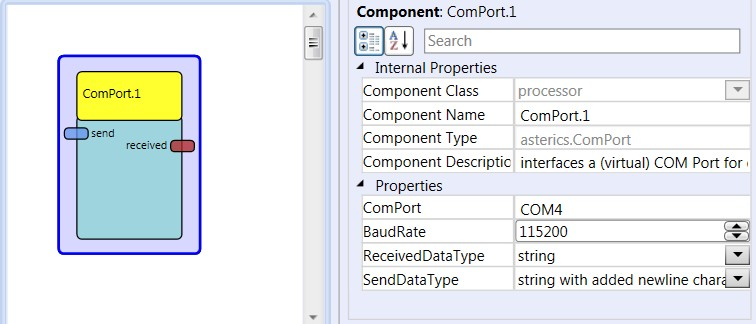
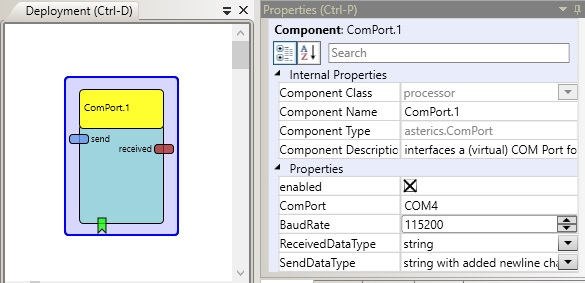
updated documentation for Averager, ComPort and SignalTranslation plugin

diff --git a/Documentation/ACS-Help/HTML/Plugins/processors/Averager.htm b/Documentation/ACS-Help/HTML/Plugins/processors/Averager.htm
@@ -20,8 +20,17 @@
 		<ul>
 			<li><STRONG>output [double]:</STRONG> This port provides the current average of the buffered inputs.</li>
 		</ul>
+		<H2>Event Listener Description</H2>
+		<ul>
+			<li><STRONG>enablePlugin:</STRONG> Enables the functionality of this plugin. </li>
+			<li>
+				<STRONG>disablePlugin:</STRONG> Disables the functionality of this plugin. New values aren't accumulated anymore and no output is sent to the output port.
+				If property autoReenableTime set, the plugin is automatically re-enabled after the time defined by this property.
+			</li>
+		</ul>
 		<H2>Properties</H2>
 		<ul>
+			<li><STRONG>enabled [boolean]:</STRONG> if true (default), the plugin is enabled, if false the plugin does nothing</li>
 			<li>
 				<STRONG>mode [integer]:</STRONG> Denotes the operating mode of the unit, three modes are available:
 				<ul>
@@ -31,6 +40,7 @@
 				</ul>
 			</li>
 			<li><STRONG>bufferSize [integer]:</STRONG> Specifies the size of the buffer in the averaging modes or the amount of milliseconds to accumulate in the accumulator mode.</li>
+			<li><STRONG>autoReenableTime [integer]:</STRONG> Time in ms, after the plugin automatically re-enables itself after being disabled. Set to zero (default) to deactivate this functionality (never auto re-enable).</li>
 		</ul>
 	</BODY>
 </HTML>

diff --git a/Documentation/ACS-Help/HTML/Plugins/processors/SignalTranslation.htm b/Documentation/ACS-Help/HTML/Plugins/processors/SignalTranslation.htm
@@ -22,6 +22,23 @@
 		<ul>
 			<li><STRONG>out [double]:</STRONG> This port sends the translated values corresponding to the output range.</li>
 		</ul>
+		<H2>Event Trigger Description</H2>
+		<ul>
+			<li>
+				<STRONG>enterRange:</STRONG> This event is generated if the defined input range was entered by the last input value and now inMin < value < inMax holds.
+				It is also fired if inMin or inMax is changed using the corresponding input ports and after this change now inMin < value < inMax newly holds.
+			</li>
+			<li>
+				<STRONG>exitRangeBelow:</STRONG>
+				This event is generated if value < inMin holds and value >= inMin was true for the last value.
+				It is also fired if inMin is changed using the corresponding input port and after this change value < inMin newly holds.
+			</li>
+			<li>
+				<STRONG>exitRangeAbove:</STRONG>
+				This event is generated if value > inMax holds and value <= inMax was true for the last value.
+				It is also fired if inMax is changed using the corresponding input port and after this change value > inMax newly holds.
+			</li>
+		</ul>
 		<H2>Properties</H2>
 		<ul>
 			<li><STRONG>inMin [double]:</STRONG> Sets the minimum value of the input range, input values below this value will be clipped to the minimum.</li>

diff --git a/Documentation/ACS-Help/HTML/Plugins/processors/ComPort.htm b/Documentation/ACS-Help/HTML/Plugins/processors/ComPort.htm
@@ -20,8 +20,14 @@
     <ul>
       <li><strong>received [string]:</strong> string which has been received (was sent from the microcontroller / embedded module)</li>
     </ul>
+    <H2>Event Listener Description</H2>
+    <ul>
+      <li><STRONG>enablePlugin:</STRONG> Enables the functionality of this plugin. </li>
+      <li><STRONG>disablePlugin:</STRONG> Disables the functionality of this plugin. Any open COM port is closed and no new values are received.</li>
+    </ul>
     <h2>Properties </h2>
     <ul>
+      <li><strong>enabled [boolean]:</strong> If true (default), the plugin is enabled, if false the plugin does nothing and doesn't attempt to open the given COM port.</li>
       <li><strong>ComPort [string]:</strong> Defines the COM Port of the target serial device. e.g. COM0</li>
       <li><strong>BaudRate [integer]:</strong> Defines the Baudrate for the communication. It must match the baudrate of the target device</li>
 	  <li><strong>ReceivedDataType [combobox selection]:</strong>can be used to indicate other data type like binary integer type etc. (currently, only string is supported)</li>
